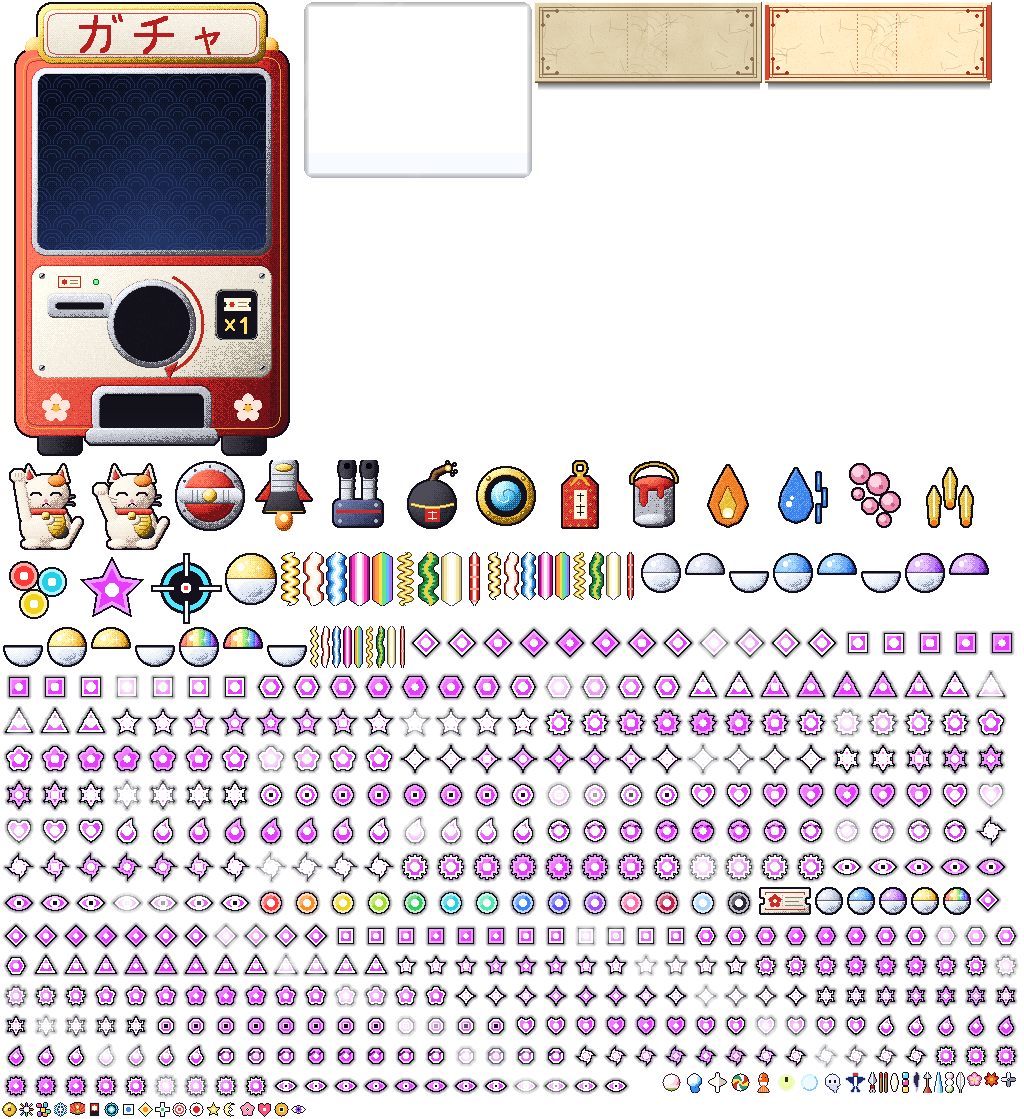
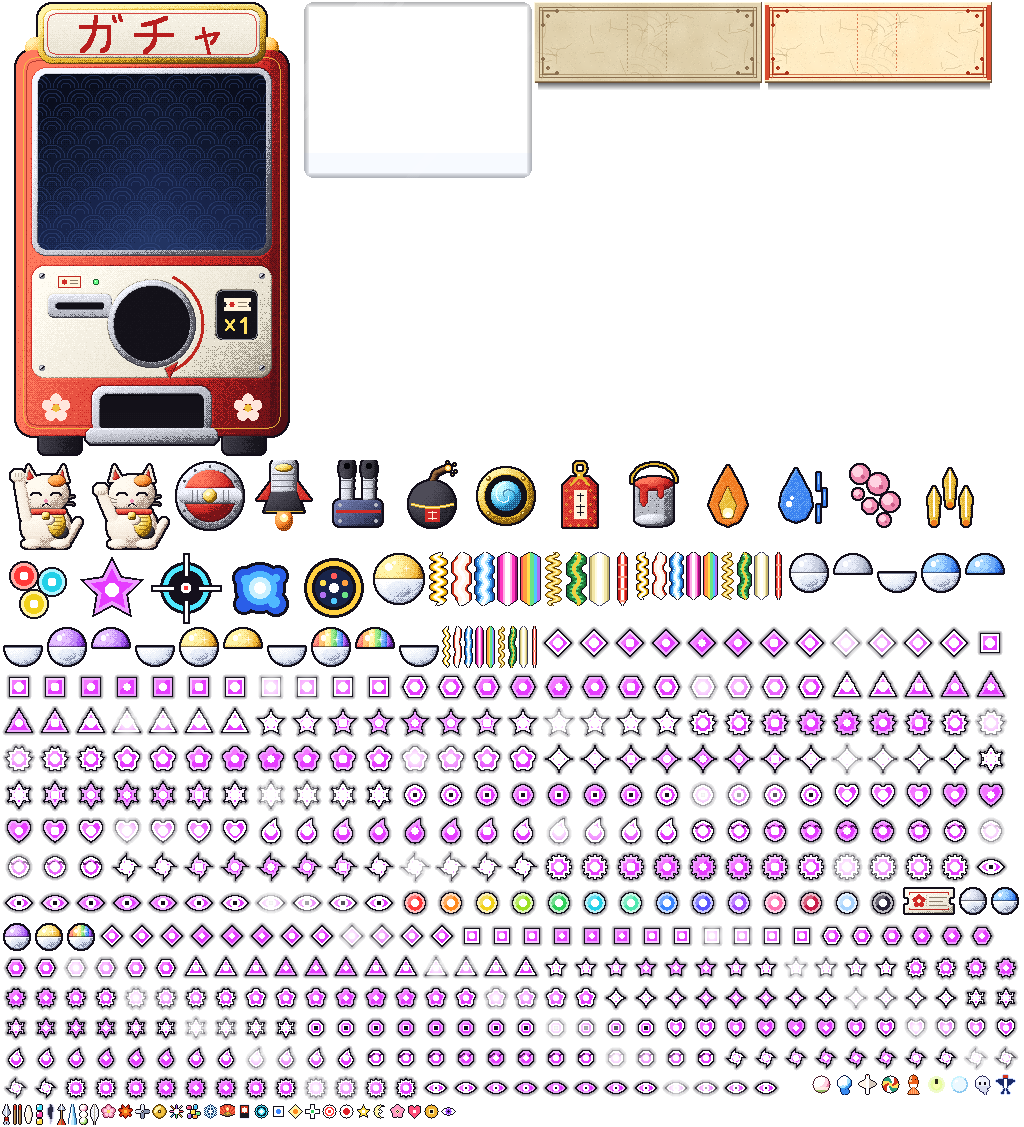
Gacha, phase 6b: 16 looks for the explosions (the fireballs recoloured, bits of their own) and 12 for the bomb (its ring, flash and what it scatters); an EFFECTS tab in the hangar

Changed region(s): [[0.0, 0.0304, 1.0, 1.0], [0.5312, 0.0608, 0.9688, 0.0912]]

diff --git a/src/data/gacha.js b/src/data/gacha.js
@@ -21,7 +21,7 @@ export const PITY = { every: 10, min: 'SR' };
 export const SLOTS = ['engine', 'gun', 'bomb', 'core', 'omamori'];
 
 /** What changes only the looks, one of each worn at a time on any hull. */
-export const LOOKS = ['paint', 'flame', 'wake', 'marker', 'dye', 'shot_basic', 'shot_spread', 'shot_laser', 'shot_homing', 'eb_color', 'eb_shape'];
+export const LOOKS = ['paint', 'flame', 'wake', 'marker', 'dye', 'shot_basic', 'shot_spread', 'shot_laser', 'shot_homing', 'eb_color', 'eb_shape', 'blast', 'bomb_look'];
 
 /** The frames a skin for a weapon's shots replaces (kind -> frames; the skin's own are <frame>_<skin>). */
 export const SHOT_FRAMES = { shot_basic: ['ps_needle'], shot_spread: ['ps_spread'], shot_laser: ['ps_laser_1', 'ps_laser_2', 'ps_laser_3'], shot_homing: ['ps_homing_0'] };
@@ -319,6 +319,38 @@ export const ITEMS = [
   { id: 'marker_heart', kind: 'marker', rarity: 'SR', name: 'ZNACZNIK: SERCE', info: 'ZNACZNIK HITBOXA STATKU', pic: 'hitbox_heart' },
   { id: 'marker_coin', kind: 'marker', rarity: 'SR', name: 'ZNACZNIK: MONETA', info: 'ZNACZNIK HITBOXA STATKU', pic: 'hitbox_coin' },
   { id: 'marker_eye', kind: 'marker', rarity: 'SSR', name: 'ZNACZNIK: OKO', info: 'ZNACZNIK HITBOXA STATKU', pic: 'hitbox_eye' },
+  // ---- explosions: the fireball's colours from its dark edge to its pale heart (`ramp`), the light it casts
+  // (`glow`) and the bits it throws in place of the city's own (`bits`, as Fx.cityBits takes them; more: times as many)
+  { id: 'blast_blue', kind: 'blast', rarity: 'N', name: 'WYBUCH: BŁĘKITNY OGIEŃ', info: 'WYGLĄD WYBUCHÓW', blast: { ramp: [0x16226e, 0x2a5ee8, 0x4fb8ff, 0xc8f0ff], glow: 0x70b0ff } },
+  { id: 'blast_green', kind: 'blast', rarity: 'N', name: 'WYBUCH: ZIELONY OGIEŃ', info: 'WYGLĄD WYBUCHÓW', blast: { ramp: [0x0e4a22, 0x22a84a, 0x7ae86a, 0xe0ffc0], glow: 0x80ff90 } },
+  { id: 'blast_violet', kind: 'blast', rarity: 'N', name: 'WYBUCH: FIOLETOWY OGIEŃ', info: 'WYGLĄD WYBUCHÓW', blast: { ramp: [0x3a1470, 0x8a3ae8, 0xc88aff, 0xf0dcff], glow: 0xc090ff } },
+  { id: 'blast_pink', kind: 'blast', rarity: 'N', name: 'WYBUCH: RÓŻOWY OGIEŃ', info: 'WYGLĄD WYBUCHÓW', blast: { ramp: [0x7a1848, 0xe83a8a, 0xff8ac0, 0xffe0ee], glow: 0xff90c0 } },
+  { id: 'blast_ice', kind: 'blast', rarity: 'R', name: 'WYBUCH: LÓD', info: 'WYGLĄD WYBUCHÓW', blast: { ramp: [0x2a5a8a, 0x6ab8e8, 0xb8ecff, 0xf0fcff], glow: 0xb0e0ff, bits: { frames: ['shard_0', 'shard_1', 'shard_2'], speed: 85, life: 0.6, drag: 2.4, g: 0 } } },
+  { id: 'blast_sakura', kind: 'blast', rarity: 'R', name: 'WYBUCH: SAKURA', info: 'WYGLĄD WYBUCHÓW', blast: { ramp: [0x8a2a50, 0xf06a9a, 0xffa8c8, 0xffe8f0], glow: 0xffa0c0, bits: { frames: ['petal_0', 'petal_1', 'petal_2', 'petal_3'], speed: 55, life: 1.1, drag: 1.8, g: 16 } } },
+  { id: 'blast_momiji', kind: 'blast', rarity: 'R', name: 'WYBUCH: MOMIJI', info: 'WYGLĄD WYBUCHÓW', blast: { ramp: [0x6a1a10, 0xd8401a, 0xff8a2a, 0xffd890], bits: { frames: ['momiji_0', 'momiji_1', 'momiji_2', 'momiji_3'], speed: 62, life: 1.05, drag: 1.85, g: 15 } } },
+  { id: 'blast_neon', kind: 'blast', rarity: 'R', name: 'WYBUCH: NEON', info: 'WYGLĄD WYBUCHÓW', blast: { ramp: [0x5a0a7a, 0xff2ad0, 0x4fe8ff, 0xf0ffff], glow: 0xff60e0, bits: { frames: ['dot_1', 'dot_2'], tints: [0xff4fb0, 0x4fe8ff, 0xffe04f, 0x9a7aff], speed: 95, life: 0.45, drag: 2.4, g: 0 } } },
+  { id: 'blast_gold', kind: 'blast', rarity: 'R', name: 'WYBUCH: ZŁOTO', info: 'WYGLĄD WYBUCHÓW', blast: { ramp: [0x6a4208, 0xd89a18, 0xffd848, 0xfff8c0], glow: 0xffd060, bits: { frames: ['dot_1', 'dot_2'], tints: [0xffd040, 0xfff4a8, 0xf0a020], speed: 80, life: 0.7, drag: 2.2, g: 30 } } },
+  { id: 'blast_ink', kind: 'blast', rarity: 'R', name: 'WYBUCH: TUSZ', info: 'WYGLĄD WYBUCHÓW', blast: { ramp: [0x0c0a12, 0x2a2634, 0x5a5668, 0xb8b4c4], glow: 0x808090, bits: { frames: ['ashf_1', 'ashf_2'], speed: 55, life: 0.9, drag: 1.8, g: 10 } } },
+  { id: 'blast_foxfire', kind: 'blast', rarity: 'SR', name: 'WYBUCH: LISI OGIEŃ', info: 'WYGLĄD WYBUCHÓW', blast: { ramp: [0x101a6a, 0x2a4ae8, 0x6aa8ff, 0xd0f0ff], glow: 0x6090ff, bits: { frames: ['kitsunebi_0', 'kitsunebi_1'], speed: 40, life: 0.7, drag: 1.4, g: -24, scale: 0.5 } } },
+  { id: 'blast_hanabi', kind: 'blast', rarity: 'SR', name: 'WYBUCH: FAJERWERKI', info: 'WYGLĄD WYBUCHÓW', blast: { ramp: [0x6a1a40, 0xff4a6a, 0xffc04a, 0xfff8c0], bits: { frames: ['dot_2'], tints: [0xff5a5a, 0xffa040, 0xffe04f, 0x6ae486, 0x4fc8ff, 0xb070f0], speed: 130, life: 0.7, drag: 2.6, g: 20, more: 2 } } },
+  { id: 'blast_cranes', kind: 'blast', rarity: 'SR', name: 'WYBUCH: ŻURAWIE', info: 'WYGLĄD WYBUCHÓW', blast: { ramp: [0x6a6a80, 0xb8c0d8, 0xe8f0ff, 0xffffff], glow: 0xffffff, bits: { frames: ['orizuru_0', 'orizuru_1', 'orizuru_2'], speed: 60, life: 0.9, drag: 1.6, g: -6, scale: 0.45 } } },
+  { id: 'blast_steam', kind: 'blast', rarity: 'SR', name: 'WYBUCH: PARA ONSEN', info: 'WYGLĄD WYBUCHÓW', blast: { ramp: [0x7a8090, 0xb8c4d0, 0xe0e8f0, 0xffffff], glow: 0xffffff, bits: { frames: ['wisp_s_0', 'wisp_s_1'], speed: 22, life: 0.8, drag: 1.2, g: -14, grow: 0.9, alpha: 0.7 } } },
+  { id: 'blast_beans', kind: 'blast', rarity: 'SR', name: 'WYBUCH: FASOLKI SETSUBUN', info: 'WYGLĄD WYBUCHÓW', blast: { ramp: [0x5a3a10, 0xc8902a, 0xf0d070, 0xfff4c0], glow: 0xffd070, bits: { frames: ['bean_bit'], speed: 90, life: 0.6, drag: 1.5, g: 90, more: 2 } } },
+  { id: 'blast_rainbow', kind: 'blast', rarity: 'SSR', name: 'WYBUCH: TĘCZA', info: 'WYGLĄD WYBUCHÓW', blast: { ramp: [0x5a1f9a, 0x3a82f0, 0x6ae486, 0xffe04f], glow: 0xffffff, bits: { frames: ['dot_1', 'dot_2'], tints: [0xff5a5a, 0xffa040, 0xffe04f, 0x6ae486, 0x4fc8ff, 0xb070f0], speed: 100, life: 0.8, drag: 2.2, g: 0, more: 2 } } },
+
+  // ---- the bomb's looks: the colour of its ring (one of a list: a ring each) and of its flash, what it scatters
+  { id: 'bomb_look_momiji', kind: 'bomb_look', rarity: 'N', name: 'BOMBA: LIŚCIE KLONU', info: 'WYGLĄD WYBUCHU BOMBY', bomb: { ring: 0xff8a2a, frames: ['momiji_0', 'momiji_1', 'momiji_2', 'momiji_3'] } },
+  { id: 'bomb_look_snow', kind: 'bomb_look', rarity: 'N', name: 'BOMBA: ŚNIEŻYCA', info: 'WYGLĄD WYBUCHU BOMBY', bomb: { ring: 0xb8ecff, flash: 0xd8f0ff, frames: ['shard_0', 'shard_1', 'shard_2'] } },
+  { id: 'bomb_look_wave', kind: 'bomb_look', rarity: 'N', name: 'BOMBA: FALA', info: 'WYGLĄD WYBUCHU BOMBY', bomb: { ring: 0x4fb8ff, flash: 0xc8e8ff, frames: ['drop_0', 'drop_1'] } },
+  { id: 'bomb_look_embers', kind: 'bomb_look', rarity: 'N', name: 'BOMBA: ŻAR', info: 'WYGLĄD WYBUCHU BOMBY', bomb: { ring: 0xff5a2a, flash: 0xffd0a0, frames: ['ember_0', 'ember_1'] } },
+  { id: 'bomb_look_steam', kind: 'bomb_look', rarity: 'R', name: 'BOMBA: PARA', info: 'WYGLĄD WYBUCHU BOMBY', bomb: { ring: 0xffffff, frames: ['wisp_s_0', 'wisp_s_1'] } },
+  { id: 'bomb_look_sparks', kind: 'bomb_look', rarity: 'R', name: 'BOMBA: ISKRY', info: 'WYGLĄD WYBUCHU BOMBY', bomb: { ring: 0xffe04f, flash: 0xfff4c0, frames: ['spark_0', 'spark_1', 'spark_2'] } },
+  { id: 'bomb_look_neon', kind: 'bomb_look', rarity: 'R', name: 'BOMBA: NEON', info: 'WYGLĄD WYBUCHU BOMBY', bomb: { ring: [0xff4fb0, 0x4fe8ff], flash: 0xff9ae0, frames: ['dot_1', 'dot_2'], tints: [0xff4fb0, 0x4fe8ff, 0xffe04f, 0x9a7aff], scale: 1.6 } },
+  { id: 'bomb_look_gold', kind: 'bomb_look', rarity: 'R', name: 'BOMBA: ZŁOTY PYŁ', info: 'WYGLĄD WYBUCHU BOMBY', bomb: { ring: 0xffd040, flash: 0xfff0b0, frames: ['dot_1', 'dot_2'], tints: [0xffd040, 0xfff4a8, 0xf0a020], scale: 1.6 } },
+  { id: 'bomb_look_ink', kind: 'bomb_look', rarity: 'SR', name: 'BOMBA: TUSZ', info: 'WYGLĄD WYBUCHU BOMBY', bomb: { ring: 0x2a2438, flash: 0x14101c, frames: ['ashf_1', 'ashf_2'] } },
+  { id: 'bomb_look_foxfire', kind: 'bomb_look', rarity: 'SR', name: 'BOMBA: LISIE OGNIKI', info: 'WYGLĄD WYBUCHU BOMBY', bomb: { ring: 0x6aa8ff, flash: 0xc0d8ff, frames: ['kitsunebi_0', 'kitsunebi_1'], scale: 0.5 } },
+  { id: 'bomb_look_cranes', kind: 'bomb_look', rarity: 'SR', name: 'BOMBA: TYSIĄC ŻURAWI', info: 'WYGLĄD WYBUCHU BOMBY', bomb: { ring: 0xffffff, frames: ['orizuru_0', 'orizuru_1', 'orizuru_2'], scale: 0.45 } },
+  { id: 'bomb_look_rainbow', kind: 'bomb_look', rarity: 'SSR', name: 'BOMBA: TĘCZA', info: 'WYGLĄD WYBUCHU BOMBY', bomb: { ring: [0xff5a5a, 0xffa040, 0xffe04f, 0x6ae486, 0x4fc8ff, 0xb070f0], frames: ['dot_2'], tints: [0xff5a5a, 0xffa040, 0xffe04f, 0x6ae486, 0x4fc8ff, 0xb070f0], scale: 1.6 } },
 ];
 
 export const ITEM = Object.fromEntries(ITEMS.map((it) => [it.id, it]));

diff --git a/src/game/Fx.js b/src/game/Fx.js
@@ -3,6 +3,7 @@ import { DEPTH, VIEW } from '../config.js';
 import { tr } from '../i18n.js';
 import { pixelText } from './Hud.js';
 import { Pool } from './Pool.js';
+import { blastSkinned } from './shipSkin.js';
 
 // What an explosion of each size throws out besides its fireball: puffs of smoke rolling off it, pieces of
 // debris, the city's own bits (below), the light it casts on the ground (how far, in glow sprites) and, on
@@ -65,16 +66,17 @@ export class Fx {
     e.vx = 0;
     e.vy = 0;
     this.scene.sfx.explode(size);
-    e.play(`expl_${size}`);
+    const look = this.scene.ship?.look?.blast; // (a look out of the gachapon: its colours, glow and bits)
+    e.play(look?.ramp && blastSkinned() ? `expl_${size}_skin` : `expl_${size}`);
     e.once('animationcomplete', () => pool.kill(e));
     const k = BLAST[size];
     const onGround = u !== null;
-    this.light(x, y, k.glow, onGround);
+    this.light(x, y, k.glow, onGround, look?.glow);
     if (!light) {
       this.smoke(x, y, k.smoke, k.speed * 4, onGround);
       this.debris(x, y, k.debris, null, k.speed, onGround);
     }
-    this.cityBits(x, y, light ? 2 : k.bits, k.speed, onGround);
+    this.cityBits(x, y, (light ? 2 : k.bits) * (look?.bits?.more ?? 1), k.speed, onGround, look?.bits ?? this.bits);
     if (onGround && k.scorch >= 0) {
       const s = this.scorch.spawn(`scorch_${k.scorch}`, x, y);
       s.setFlipX(Math.random() < 0.5).setFlipY(Math.random() < 0.5);
@@ -134,8 +136,7 @@ export class Fx {
   }
 
   /** The city's own bits in a blast. */
-  cityBits(x, y, n, speed = 1, ground = false) {
-    const b = this.bits;
+  cityBits(x, y, n, speed = 1, ground = false, b = this.bits) {
     for (let i = 0; i < n; i++) {
       const a = Math.random() * Math.PI * 2;
       const v = b.speed * speed * (0.4 + Math.random() * 0.8);
@@ -150,6 +151,7 @@ export class Fx {
       p.a0 = b.alpha ?? 1;
       p.ground = ground;
       if (b.tints) p.setTint(b.tints[i % b.tints.length]);
+      if (b.scale) p.setScale(b.scale * p.base);
     }
   }
 
@@ -174,14 +176,16 @@ export class Fx {
     s.once('animationcomplete', () => this.sparks.kill(s));
   }
 
-  flash(alpha, duration) {
+  flash(alpha, duration, color = 0xffffff) {
+    this.flashRect.setFillStyle(color);
     this.flashA = alpha;
     this.flashDur = duration;
     this.flashT = duration;
   }
 
-  shockwave(x, y) {
-    this.rings.push({ x, y, r: 4, life: 0.6 });
+  /** color: the ring's (one of a list); the bomb's look out of the gachapon. */
+  shockwave(x, y, color = null) {
+    this.rings.push({ x, y, r: 4, life: 0.6, c: Array.isArray(color) ? color[Math.floor(Math.random() * color.length)] : color });
     for (const pool of [this.smokes, this.parts, this.petals]) {
       for (const p of pool.live) {
         if (p.ground) continue;
@@ -252,11 +256,14 @@ export class Fx {
     }
   }
 
-  petalBurst(x, y, n) {
+  /** look: what flies in place of the petals ({ frames, tints, scale }: the bomb's look out of the gachapon). */
+  petalBurst(x, y, n, look = null) {
     for (let i = 0; i < n; i++) {
       const a = Math.random() * Math.PI * 2;
       const v = 60 + Math.random() * 160;
-      const p = this.petals.spawn(`petal_${i % 4}`, x, y);
+      const p = this.petals.spawn(look?.frames ? look.frames[i % look.frames.length] : `petal_${i % 4}`, x, y);
+      if (look?.tints) p.setTint(look.tints[i % look.tints.length]);
+      if (look?.scale) p.setScale(look.scale * p.base);
       p.vx = Math.cos(a) * v;
       p.vy = Math.sin(a) * v;
       p.life = 0.8 + Math.random() * 0.8;
@@ -393,7 +400,7 @@ export class Fx {
     this.rings.length = n;
     for (const r of this.rings) {
       r.r += 420 * dt;
-      this.ring.lineStyle(3, 0xffd6e5, Math.min(1, r.life * 2.5));
+      this.ring.lineStyle(3, r.c ?? 0xffd6e5, Math.min(1, r.life * 2.5));
       this.ring.strokeCircle(r.x, r.y, r.r);
       this.ring.lineStyle(1, 0xffffff, Math.min(1, r.life * 2.5));
       this.ring.strokeCircle(r.x, r.y, r.r * 0.8);

diff --git a/src/game/shipSkin.js b/src/game/shipSkin.js
@@ -65,9 +65,71 @@ function bulletSkin(scene, ship) {
   for (const f of all) setCustomFrame(f, 'eb_skin');
 }
 
-/** Paint the ship (or show it in its own livery again), and dress the enemies' bullets. Returns the ship. */
+// The explosions in the colours of a look out of the gachapon: the three fireballs' frames (sprites540) copied
+// into a texture of the game's, their fire turned from its dark edge to its white heart into the look's ramp
+// (the smoke stays grey), with animations of their own on it: expl_s_skin, expl_m_skin, expl_l_skin (see Fx).
+const EXPL = [['expl_s', 5, 16], ['expl_m', 6, 14], ['expl_l', 8, 12]];
+let blastWorn = '';
+
+/** Is there a recoloured fireball to show now? */
+export const blastSkinned = () => blastWorn !== '';
+
+function blastSkin(scene, ship) {
+  const ramp = ship.look?.blast?.ramp ?? null;
+  const atlas = scene.textures.exists('sprites540') ? scene.textures.get('sprites540') : null;
+  const worn = ramp && atlas?.has('expl_l_0') ? ramp.join() : '';
+  if (worn === blastWorn) return;
+  blastWorn = worn;
+  if (!worn) return;
+  const cells = EXPL.map(([name, n]) => ({ name, n, size: atlas.get(`${name}_0`).cutWidth }));
+  const w = Math.max(...cells.map((c) => c.size * c.n));
+  const h = cells.reduce((sum, c) => sum + c.size, 0);
+  let tex = scene.textures.exists('expl_skin') ? scene.textures.get('expl_skin') : null;
+  if (!tex) {
+    tex = scene.textures.createCanvas('expl_skin', w, h);
+    let y = 0;
+    for (const c of cells) {
+      for (let i = 0; i < c.n; i++) tex.add(`${c.name}_${i}`, 0, i * c.size, y, c.size, c.size);
+      y += c.size;
+    }
+    for (const [name, n, rate] of EXPL)
+      scene.anims.create({ key: `${name}_skin`, frames: Array.from({ length: n }, (_, i) => ({ key: 'expl_skin', frame: `${name}_${i}` })), frameRate: rate, repeat: 0 });
+  }
+  const src = atlas.getSourceImage();
+  const ctx = tex.context;
+  ctx.imageSmoothingEnabled = false;
+  ctx.clearRect(0, 0, w, h);
+  let y = 0;
+  for (const c of cells) {
+    for (let i = 0; i < c.n; i++) {
+      const f = atlas.get(`${c.name}_${i}`);
+      ctx.drawImage(src, f.cutX, f.cutY, c.size, c.size, i * c.size, y, c.size, c.size);
+    }
+    y += c.size;
+  }
+  // heat, from the fire's own colours: 0 at its darkest red, 1 at white; then the ramp's four colours and white
+  const stops = [...ramp.map((c) => [(c >> 16) & 255, (c >> 8) & 255, c & 255]), [255, 255, 255]];
+  const AT = [0, 0.33, 0.62, 0.85, 1];
+  const img = ctx.getImageData(0, 0, w, h);
+  const d = img.data;
+  for (let i = 0; i < d.length; i += 4) {
+    if (!d[i + 3]) continue;
+    const mx = Math.max(d[i], d[i + 1], d[i + 2]);
+    if (mx - Math.min(d[i], d[i + 1], d[i + 2]) < 40 && mx < 200) continue; // (smoke)
+    const t = Math.max(0, Math.min(1, ((d[i] + d[i + 1] + d[i + 2] * 0.5) / 637.5 - 0.2) / 0.8));
+    let k = 1;
+    while (k < AT.length - 1 && t > AT[k]) k++;
+    const q = (t - AT[k - 1]) / (AT[k] - AT[k - 1]);
+    for (let j = 0; j < 3; j++) d[i + j] = Math.round(stops[k - 1][j] + (stops[k][j] - stops[k - 1][j]) * q);
+  }
+  ctx.putImageData(img, 0, 0);
+  tex.refresh();
+}
+
+/** Paint the ship (or show it in its own livery again), and dress the enemies' bullets and the explosions. Returns the ship. */
 export function applySkin(scene, ship) {
   bulletSkin(scene, ship);
+  blastSkin(scene, ship);
   const base = ship.frame;
   const atlas = scene.textures.exists('sprites540') ? scene.textures.get('sprites540') : null;
   const colors = ship.look?.paint;

diff --git a/src/game/Hangar.js b/src/game/Hangar.js
@@ -14,14 +14,15 @@ const W = VIEW.width;
 const LINE = 12; // a row of the list
 const BOX = 26; // a slot
 const PER_ROW = 5;
-const SLOT_NAME = { hull: 'KADŁUB', engine: 'SILNIK', gun: 'DZIAŁO', bomb: 'BOMBA', core: 'RDZEŃ', omamori: 'OMAMORI', paint: 'MALOWANIE', flame: 'PŁOMIEŃ', dye: 'BARWNIK POCISKÓW', wake: 'ŚLAD ZA STATKIEM', shot_basic: 'POCISKI: PODSTAWOWA', shot_spread: 'POCISKI: ROZRZUT', shot_laser: 'POCISKI: LASER', shot_homing: 'POCISKI: NAPROWADZANE', marker: 'ZNACZNIK HITBOXA', eb_color: 'WROGIE POCISKI: KOLOR', eb_shape: 'WROGIE POCISKI: KSZTAŁT' };
+const SLOT_NAME = { hull: 'KADŁUB', engine: 'SILNIK', gun: 'DZIAŁO', bomb: 'BOMBA', core: 'RDZEŃ', omamori: 'OMAMORI', paint: 'MALOWANIE', flame: 'PŁOMIEŃ', dye: 'BARWNIK POCISKÓW', wake: 'ŚLAD ZA STATKIEM', shot_basic: 'POCISKI: PODSTAWOWA', shot_spread: 'POCISKI: ROZRZUT', shot_laser: 'POCISKI: LASER', shot_homing: 'POCISKI: NAPROWADZANE', marker: 'ZNACZNIK HITBOXA', eb_color: 'WROGIE POCISKI: KOLOR', eb_shape: 'WROGIE POCISKI: KSZTAŁT', blast: 'WYBUCHY', bomb_look: 'WYGLĄD BOMBY' };
 // a slot's picture: the kind's (the four weapons' skins share one), or the fitted skin itself
 const slotFrame = (kind, it) => (it?.pic ? it.pic : it?.skin ? `${SHOT_FRAMES[kind][0]}_${it.skin}` : kind.startsWith('shot_') ? 'part_shot' : `part_${kind}`);
-// the tabs: the parts, then the looks (of the ship, of the shots: its own and the enemies')
+// the tabs: the parts, then the looks (of the ship, of the shots: its own and the enemies', of the effects)
 const TABS = [
-  { id: 'parts', name: 'CZĘŚCI', x: 30 },
-  { id: 'ship', name: 'STATEK', x: 90, kinds: ['paint', 'flame', 'wake', 'marker'] },
-  { id: 'shots', name: 'POCISKI', x: 150, kinds: ['dye', 'shot_basic', 'shot_spread', 'shot_laser', 'shot_homing', 'eb_color', 'eb_shape'] },
+  { id: 'parts', name: 'CZĘŚCI', x: 21 },
+  { id: 'ship', name: 'STATEK', x: 65, kinds: ['paint', 'flame', 'wake', 'marker'] },
+  { id: 'shots', name: 'POCISKI', x: 112, kinds: ['dye', 'shot_basic', 'shot_spread', 'shot_laser', 'shot_homing', 'eb_color', 'eb_shape'] },
+  { id: 'fx', name: 'EFEKTY', x: 159, kinds: ['blast', 'bomb_look'] },
 ];
 const TAB_Y = 95;
 const STATS = [
@@ -161,7 +162,7 @@ export class Hangar {
     TABS.forEach((t, i) => {
       const on = t.id === this.tab;
       this.tabs[i].setTint(on ? 0xffe080 : 0x6a7a92);
-      if (on) g.fillStyle(0xffe080).fillRect(t.x - 22, TAB_Y + 6, 44, 1);
+      if (on) g.fillStyle(0xffe080).fillRect(t.x - t.name.length * 3, TAB_Y + 6, t.name.length * 6, 1);
     });
 
     // the ship in its frame, in the paint and with the flame looked at
@@ -305,7 +306,7 @@ export class Hangar {
   /** A press: the back arrow or a slot at once; on the list it may become a drag (scroll) or, on release, a tap. */
   pointer(p) {
     if (p.y < 26 && p.x < 60) return 'close';
-    if (Math.abs(p.y - TAB_Y) <= 8) return this.setTab(TABS[Math.min(TABS.length - 1, Math.floor((p.x * TABS.length) / W))].id);
+    if (Math.abs(p.y - TAB_Y) <= 8) return this.setTab(TABS.reduce((a, t) => (Math.abs(p.x - t.x) < Math.abs(p.x - a.x) ? t : a)).id);
     const n = this.slots().length;
     for (let i = 0; i < n; i++) {
       const c = this.slotAt(i);

diff --git a/src/game/Player.js b/src/game/Player.js
@@ -709,10 +709,11 @@ export class Player {
       s.fx.text(this.x, this.y - 36, `+${pts}`, 1.4, 0x9cf09a);
     }
     if (bm.kind === 'hanabi') this.hanabi = { n: bm.bursts, t: 0.3, damage: bm.burst };
-    s.fx.flash(bm.kind === 'cut' ? 0.45 : 0.75, bm.kind === 'cut' ? 0.3 : 0.45);
-    s.fx.shockwave(this.x, this.y);
-    if (bm.kind === 'shock') s.fx.shockwave(this.x, this.y - 30);
-    s.fx.petalBurst(this.x, this.y, bm.kind === 'cut' ? 20 : 48);
+    const bl = this.ship.look?.bombLook; // (its look out of the gachapon: the ring, the flash, what it scatters)
+    s.fx.flash(bm.kind === 'cut' ? 0.45 : 0.75, bm.kind === 'cut' ? 0.3 : 0.45, bl?.flash);
+    s.fx.shockwave(this.x, this.y, bl?.ring);
+    if (bm.kind === 'shock') s.fx.shockwave(this.x, this.y - 30, bl?.ring);
+    s.fx.petalBurst(this.x, this.y, bm.kind === 'cut' ? 20 : 48, bl);
     s.enemies.damageAll(bm.damage);
     for (const [cx, cy] of cranes) {
       const o = this.shot('orizuru_0', cx, cy, (Math.random() - 0.5) * 60, -90, 2, 4, { homing: true, life: 1.8, arm: 0.12 });
@@ -732,9 +733,10 @@ export class Player {
     const x = 30 + Math.random() * (VIEW.width - 60);
     const y = 40 + Math.random() * (s.H * 0.4);
     s.enemies.damageAll(h.damage);
-    s.fx.shockwave(x, y);
-    s.fx.petalBurst(x, y, 22);
-    s.fx.flash(0.25, 0.2);
+    const bl = this.ship.look?.bombLook;
+    s.fx.shockwave(x, y, bl?.ring);
+    s.fx.petalBurst(x, y, 22, bl);
+    s.fx.flash(0.25, 0.2, bl?.flash);
     s.sfx.explode('m');
     if (--h.n <= 0) this.hanabi = null;
   }

diff --git a/src/game/Gacha.js b/src/game/Gacha.js
@@ -15,7 +15,7 @@ const MX = (W - MACHINE.w * FINE) / 2; // the machine's left edge
 const SHOWN = 30; // capsules under the glass at most
 const BALL = (BALL_FRAME * FINE) / 2 - 0.4; // their radius, in game units (they overlap a touch: no gaps between them)
 const RAINBOW = [0xff5a5a, 0xffb040, 0xfff060, 0x6ae486, 0x5cacf2, 0xb070f0];
-const KIND = { hull: 'KADŁUB', engine: 'SILNIK', gun: 'DZIAŁO', bomb: 'BOMBA', core: 'RDZEŃ', omamori: 'OMAMORI', paint: 'MALOWANIE', flame: 'PŁOMIEŃ', dye: 'BARWNIK', wake: 'ŚLAD', shot_basic: 'POCISKI', shot_spread: 'POCISKI', shot_laser: 'POCISKI', shot_homing: 'POCISKI', eb_color: 'WROGIE POCISKI', eb_shape: 'WROGIE POCISKI', marker: 'ZNACZNIK' };
+const KIND = { hull: 'KADŁUB', engine: 'SILNIK', gun: 'DZIAŁO', bomb: 'BOMBA', core: 'RDZEŃ', omamori: 'OMAMORI', paint: 'MALOWANIE', flame: 'PŁOMIEŃ', dye: 'BARWNIK', wake: 'ŚLAD', shot_basic: 'POCISKI', shot_spread: 'POCISKI', shot_laser: 'POCISKI', shot_homing: 'POCISKI', eb_color: 'WROGIE POCISKI', eb_shape: 'WROGIE POCISKI', marker: 'ZNACZNIK', blast: 'WYBUCHY', bomb_look: 'WYGLĄD BOMBY' };
 // how long each step of a draw takes, s (a draw of ten runs them at half the time)
 const TIME = { ticket: 0.55, crank: 1.0, shake: 0.85, open: 0.4 };
 const ease = (k) => k * k * (3 - 2 * k);

diff --git a/src/game/Loadout.js b/src/game/Loadout.js
@@ -163,7 +163,7 @@ export function buildShip(state) {
   }
   // the looks (see shipSkin.js): the paint's colours, the flame, the shots' tint
   const look = state.look ?? {};
-  ship.look = { paint: ITEM[look.paint]?.colors ?? null, flame: ITEM[look.flame]?.flame ?? null, dye: ITEM[look.dye]?.tint ?? null, wake: ITEM[look.wake]?.wake ?? null, shots: {}, marker: ITEM[look.marker]?.pic ?? null, ebColor: ITEM[look.eb_color]?.body ?? null, ebShape: ITEM[look.eb_shape]?.shape ?? null };
+  ship.look = { paint: ITEM[look.paint]?.colors ?? null, flame: ITEM[look.flame]?.flame ?? null, dye: ITEM[look.dye]?.tint ?? null, wake: ITEM[look.wake]?.wake ?? null, shots: {}, marker: ITEM[look.marker]?.pic ?? null, ebColor: ITEM[look.eb_color]?.body ?? null, ebShape: ITEM[look.eb_shape]?.shape ?? null, blast: ITEM[look.blast]?.blast ?? null, bombLook: ITEM[look.bomb_look]?.bomb ?? null };
   // (the shots' skins: the frame a shot is fired with -> the frame it is shown with)
   for (const [kind, frames] of Object.entries(SHOT_FRAMES)) if (ITEM[look[kind]]) for (const f of frames) ship.look.shots[f] = `${f}_${ITEM[look[kind]].skin}`;
   ship.perk = fitted.filter((it) => it.kind === 'core').map((it) => it.name).join(' + ');

diff --git a/plan-gacha.md b/plan-gacha.md
@@ -193,7 +193,7 @@ Każda faza kończy się grywalnym stanem i osobnym commitem.
 3. **Ekran GACHA (gotowe, bez skrótu „załóż teraz”: dojdzie z hangarem).** Grafika automatu, animacja, dźwięk.
 4. **Ekran HANGAR i mody (gotowe; zostały: skrót „załóż teraz” po losowaniu, 3 zapisane zestawy, pas próbny).** Mody z sekcji 4.7 działające w grze, kadłub premium HOUOU (UR: silnik 1, działa 2, bomba 1, rdzenie 2, omamori 3), sloty trzymają swoje miejsce (pusty slot zostaje pusty).
 5. **Kosmetyka, fala 1 (gotowe poza skórkami wieżyczek).** 60 malowań (cztery kolory na warstwach kadłuba, bez wzorów: wzory i animacje dojdą z fazą 7), 20 płomieni, 12 barwników, 12 śladów za statkiem (płatki sakury wycięte z Kioto i inne), 36 skórek pocisków (po 9 na broń podstawową, rozrzut, laser i naprowadzane). Zakładka WYGLĄD w hangarze.
-6. **Kosmetyka, fala 2.** Naklejki, wrogie pociski, wybuchy, wygląd bomby, towarzysze, znaczniki, dźwięki, karty, tytuły. **Gotowe (6a):** wrogie pociski (14 kolorów, 16 kształtów; tylko standardowe kule, pociski tematyczne miast zostają) i znaczniki hitboxa (12); hangar ma zakładki CZĘŚCI / STATEK / POCISKI.
+6. **Kosmetyka, fala 2.** Naklejki, wrogie pociski, wybuchy, wygląd bomby, towarzysze, znaczniki, dźwięki, karty, tytuły. **Gotowe (6b):** wybuchy (16) i wygląd bomby (12), zakładka EFEKTY w hangarze. **Gotowe (6a):** wrogie pociski (14 kolorów, 16 kształtów; tylko standardowe kule, pociski tematyczne miast zostają) i znaczniki hitboxa (12); hangar ma zakładki CZĘŚCI / STATEK / POCISKI.
 7. **Animacje premium.** Sekcja 4.5.
 8. **Strojenie i testy.** Liczby modów, tempo zdobywania, test przeglądarkowy obu ekranów, tłumaczenia PL i EN wszystkich nazw.
 
